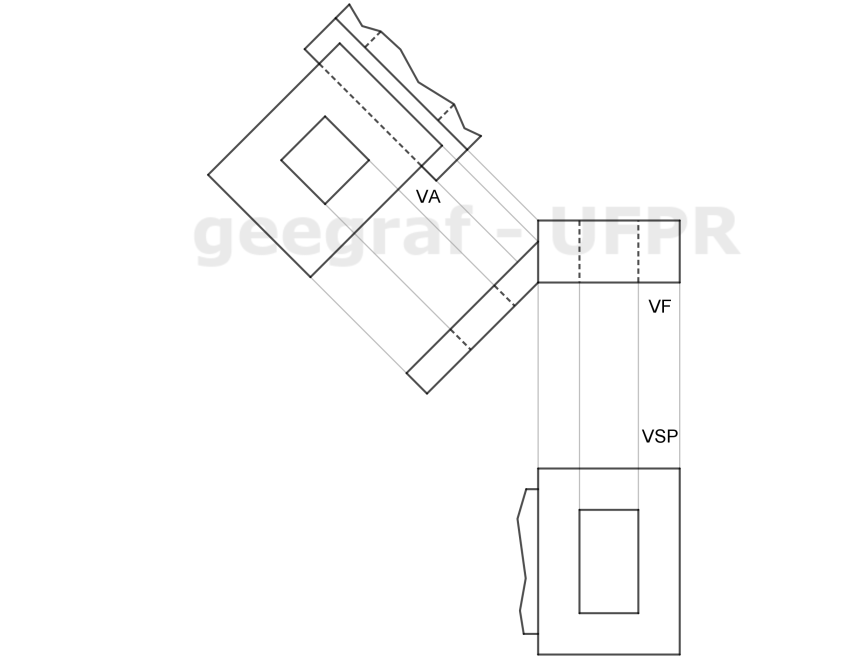
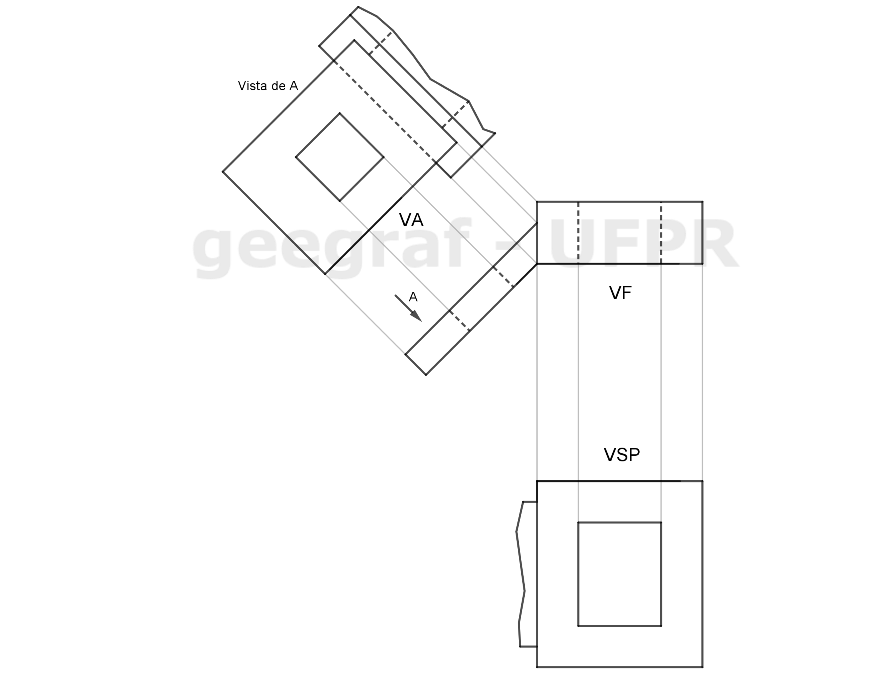
update

diff --git a/README.md b/README.md
@@ -10045,13 +10045,25 @@
   </details><a href="vr/p155.html" target="_blank" class="visu">Visualização em 3D</a></div>
 	<p class="topop"><a href="#dtecnico" class="topo">voltar ao topo</a></p>
 	<img src="dt/Apost_DT_2021_00052.png"/>
-	<div class="combo"><a href="vr/p156.html" target="_blank" class="visu">Visualização em 3D</a></div>
+	<div class="combo"><details class="sub"><summary>&#x1f4cf; &#x1f4d0; Solução</summary>
+  <p>Vamos desenhar a Vista Frontal (VF), a Vista Superior Parcial (VSP) e a Vista Auxiliar (VA). Usaremos a Unidade o mm e a Escala Natural.</p>
+    <img src="dt/52_01.png"/>
+    <figcaption>A Vista Frontal é desenha integralmente. A Vista Superior Parcial possui uma linha de ruptura, indicando que parte do Objeto não será representado pois não está em VG nesta Vista. A Vista Auxiliar foi obtida por meio de uma Mudança de Plano Horizontal, a mesma também possui uma linha de ruptura.</figcaption>
+  </details><a href="vr/p156.html" target="_blank" class="visu">Visualização em 3D</a></div>
 	<p class="topop"><a href="#dtecnico" class="topo">voltar ao topo</a></p>
 	<img src="dt/Apost_DT_2021_00053.png"/>
-	<div class="combo"><a href="vr/p157.html" target="_blank" class="visu">Visualização em 3D</a></div>
+	<div class="combo"><details class="sub"><summary>&#x1f4cf; &#x1f4d0; Solução</summary>
+  <p>Vamos desenhar a Vista Frontal (VF), a Vista Superior Parcial (VSP) e a Vista Auxiliar (VA). Usaremos a Unidade o mm e a Escala Natural.</p>
+    <img src="dt/53_01.png"/>
+    <figcaption>A Vista Frontal é desenha integralmente, porém a parte inclinada somente é possível representá-la após a construção da VA. A Vista Superior Parcial possui uma linha de ruptura, indicando que parte do Objeto não será representado pois não está em VG nesta Vista. A Vista Auxiliar foi obtida por meio de uma Mudança de Plano Horizontal, a mesma também possui uma linha de ruptura.</figcaption>
+  </details><a href="vr/p157.html" target="_blank" class="visu">Visualização em 3D</a></div>
 	<p class="topop"><a href="#dtecnico" class="topo">voltar ao topo</a></p>
 	<img src="dt/Apost_DT_2021_00054.png"/>
-	<div class="combo"><a href="vr/p158.html" target="_blank" class="visu">Visualização em 3D</a></div>
+	<div class="combo"><details class="sub"><summary>&#x1f4cf; &#x1f4d0; Solução</summary>
+  <p>Vamos desenhar a Vista Frontal (VF) e duas Vistas Auxiliares (VA1 e VA2). Usaremos a Unidade o mm e a Escala Natural.</p>
+    <img src="dt/54_01.png"/>
+    <figcaption>A Vista Frontal é desenha integralmente. As Vistas Auxiliares foram obtidas por meio de Mudança de Planos Horizontal, cada uma possui linhas de rupturas indicando que parte o Objeto não será representado pois não está em VG na Vista correspondente.</figcaption>
+  </details><a href="vr/p158.html" target="_blank" class="visu">Visualização em 3D</a></div>
 	<p class="topop"><a href="#dtecnico" class="topo">voltar ao topo</a></p>
 	<img src="dt/Apost_DT_2021_00055.png"/>
 	<p class="topop"><a href="#dtecnico" class="topo">voltar ao topo</a></p>
@@ -10062,12 +10074,24 @@
 	<img src="dt/Apost_DT_2021_00058.png"/>
 	<p class="topop"><a href="#dtecnico" class="topo">voltar ao topo</a></p>
 	<img src="dt/Apost_DT_2021_00059.png"/>
-	<div class="combo"><a href="vr/p163a.html" target="_blank" class="visu">Visualização em 3D</a></div>
+	<div class="combo"><details class="sub"><summary>&#x1f4cf; &#x1f4d0; Solução</summary>
+  <p>Vamos representar o corte indicado no objeto.</p>
+    <img src="dt/59_01.png"/>
+    <figcaption>O corte é obtido por meio da interseção com um Plano Frontal definido pelos pontos A e B. Somente a seção resultante que é hachurada.</figcaption>
+  </details><a href="vr/p163a.html" target="_blank" class="visu">Visualização em 3D</a></div>
 	<p class="topop"><a href="#dtecnico" class="topo">voltar ao topo</a></p>
 	<img src="dt/Apost_DT_2021_00060.png"/>
-	<div class="combo"><a href="vr/p164b.html" target="_blank" class="visu">Visualização em 3D</a></div>
+	<div class="combo"><details class="sub"><summary>&#x1f4cf; &#x1f4d0; Solução</summary>
+  <p>Vamos representar o corte indicado no objeto.</p>
+    <img src="dt/60_01_01.png"/>
+    <figcaption>O corte é obtido por meio da interseção com um Plano Frontal definido pelos pontos A e B. Somente a seção resultante que é hachurada.</figcaption>
+  </details><a href="vr/p164b.html" target="_blank" class="visu">Visualização em 3D</a></div>
 	<img src="dt/Apost_DT_2021_00060a.png"/>
-	<div class="combo"><a href="vr/p164c.html" target="_blank" class="visu">Visualização em 3D</a></div>
+	<div class="combo"><details class="sub"><summary>&#x1f4cf; &#x1f4d0; Solução</summary>
+  <p>Vamos representar o corte indicado no objeto.</p>
+    <img src="dt/60_02_01.png"/>
+    <figcaption>O corte é obtido por meio da interseção com um Plano Frontal definido pelos pontos A e B. Somente a seção resultante que é hachurada.</figcaption>
+  </details><a href="vr/p164c.html" target="_blank" class="visu">Visualização em 3D</a></div>
 	<p class="topop"><a href="#dtecnico" class="topo">voltar ao topo</a></p>
 	<img src="dt/Apost_DT_2021_00061.png"/>
 	<div class="combo" id="atv73"> &#x1f4cf; &#x1f4d0; <span class="atv">Atividade 7.3</span>
